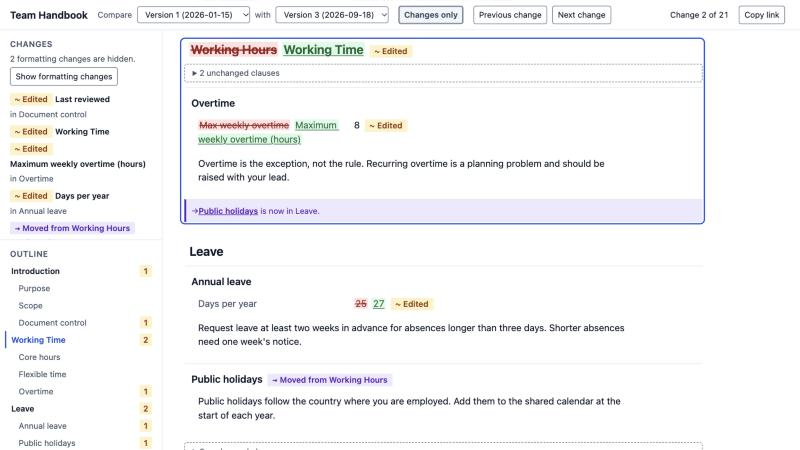
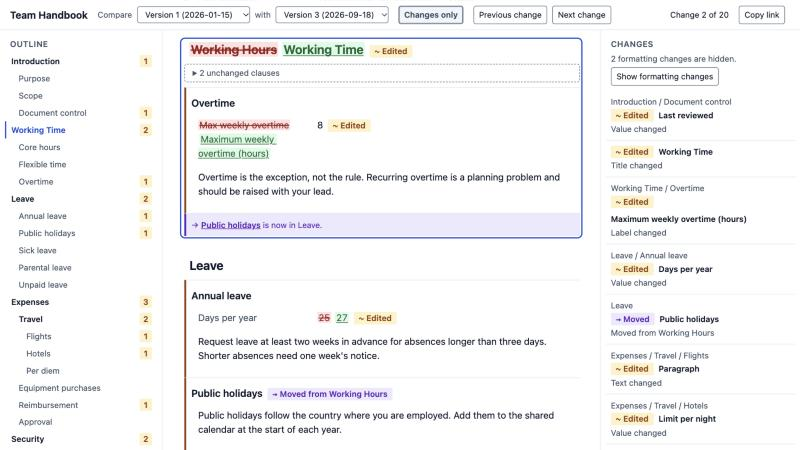
Describe the three columns and the size of the code in the README
The README says that the code is larger than the task needs, why it
grew, and where a pass to make it smaller would start. The line counts
come from wc. The screenshot shows the three columns.

diff --git a/README.md b/README.md
@@ -31,7 +31,8 @@ Please keep `package-lock.json`. npm 10 cannot resolve this dependency tree from
 - A change is added, removed, edited, moved, reordered or replaced. Each mark has a glyph and a word next to its colour.
 - A clause that comes back under a new id shows as one change, "Replaced, likely renamed". The app says "likely" because it guesses.
 - An edited paragraph marks only the words that differ.
-- The side panel lists all changes, and "Previous change" and "Next change" step through them.
+- A column on the right lists all changes. Each entry says where the change is and what changed, such as "Value changed".
+- "Previous change" and "Next change" step through the changes, and the outline on the left follows the page.
 - "Changes only" folds each run of unchanged content. Find-in-page still reaches the folded text.
 - The address holds the two versions, the switches and the selected change. "Copy link" copies it.
 
@@ -183,7 +184,7 @@ Each card went through the same steps:
 5. A review by a read-only agent, [`.claude/agents/code-reviewer.md`](.claude/agents/code-reviewer.md). It reports only findings that it is sure of, each with the rule that is broken.
 6. A pull request with the acceptance table, the gate result and the review.
 
-The pull requests #1 to #9 have the record of each card.
+Each card has its own pull request, with its record.
 
 ### Guardrails
 
@@ -226,13 +227,22 @@ For the card with the unsafe markup, the reviewer acted as an attacker who contr
 | Layout, focus, scrolling, themes | A check in a real browser for each card, recorded in the card |
 | Find-in-page | By hand |
 
-There are 165 unit tests. A test guards an acceptance criterion, an invariant or a bug that really happened, and its expected value comes from the data or from `docs/SPEC.md`.
+There are 170 unit tests. A test guards an acceptance criterion, an invariant or a bug that really happened, and its expected value comes from the data or from `docs/SPEC.md`.
 
 ## Not done and what I would do next
 
 ### Planned, not built
 
 - A browser test. Card 008 adds one Playwright test for the main path. Today the browser checks are done by hand.
+
+### The size of the code
+
+The code is larger than this task needs. The comparison is about 1124 lines in `src/domain/`, and the page is about 1351 lines in 14 components and `App.vue`.
+It grew in the reviews. Each round added a case for an edge of the data or for a screen reader, and no round took code away.
+With more time I would do one pass only to make it smaller. Two places to start:
+
+- One recursive component for a node, in place of one component for each node type.
+- The rename of a clause as a hint on the removed and the added node, in place of a second pass that rewrites the tree.
 
 ### Known limits
 
@@ -244,7 +254,7 @@ There are 165 unit tests. A test guards an acceptance criterion, an invariant or
 
 - A screen reader. The `<del>`, `<ins>` and hidden words are checked in the DOM only.
 - Find-in-page in a second browser engine.
-- A window under 900 pixels with all controls. The brief asks for a laptop screen.
+- A window under 900 pixels. Between 900 and 1200 pixels the top bar has two rows and the two lists share the left panel.
 - A large document. See the next section.
 
 ### If the document grows

diff --git a/docs/conventions/ui.md b/docs/conventions/ui.md
@@ -15,8 +15,9 @@ The app is a reading tool for a document that people must trust. It is calm and 
 - Fonts: the system font stack. No web font is loaded.
 - Numbers in a count or a column use `font-variant-numeric: tabular-nums`.
 - Spacing steps are 4, 8, 12, 16, 24 and 32 pixels.
-- The reading column is about 75 characters wide. The side panel is 260 pixels wide.
-- The top bar is one row, 48 pixels high.
+- The reading column is about 75 characters wide. The outline is 260 pixels wide, and the change list is 320 pixels wide.
+- From 1200 pixels the page has three columns: the outline, the text and the change list. Below that, the two lists share the left panel.
+- The top bar is one row, 48 pixels high. Below 1200 pixels it has two rows.
 
 ## Rules in order of weight
 
@@ -31,7 +32,7 @@ The app is a reading tool for a document that people must trust. It is calm and 
 9. **Counts.** One polite live region announces a new change count as a full phrase.
 10. **Long values wrap.** Do not cut a value short. A reader must see the whole value.
 11. **Motion.** Respect `prefers-reduced-motion`. Animate only `transform` and `opacity`, for 200 milliseconds or less.
-12. **One scroll area for the text.** The document scrolls with the page. Only the two lists of the side panel scroll by themselves.
+12. **One scroll area for the text.** The document scrolls with the page. Only the outline and the change list scroll by themselves.
 
 ## Tokens
 
